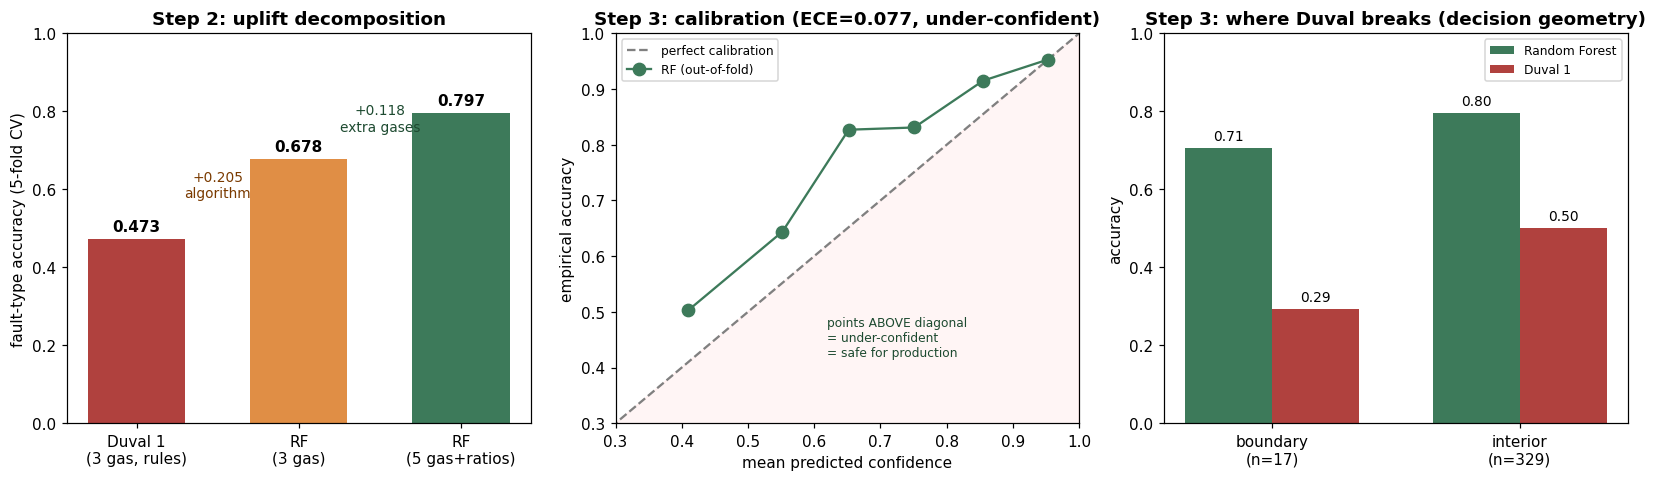
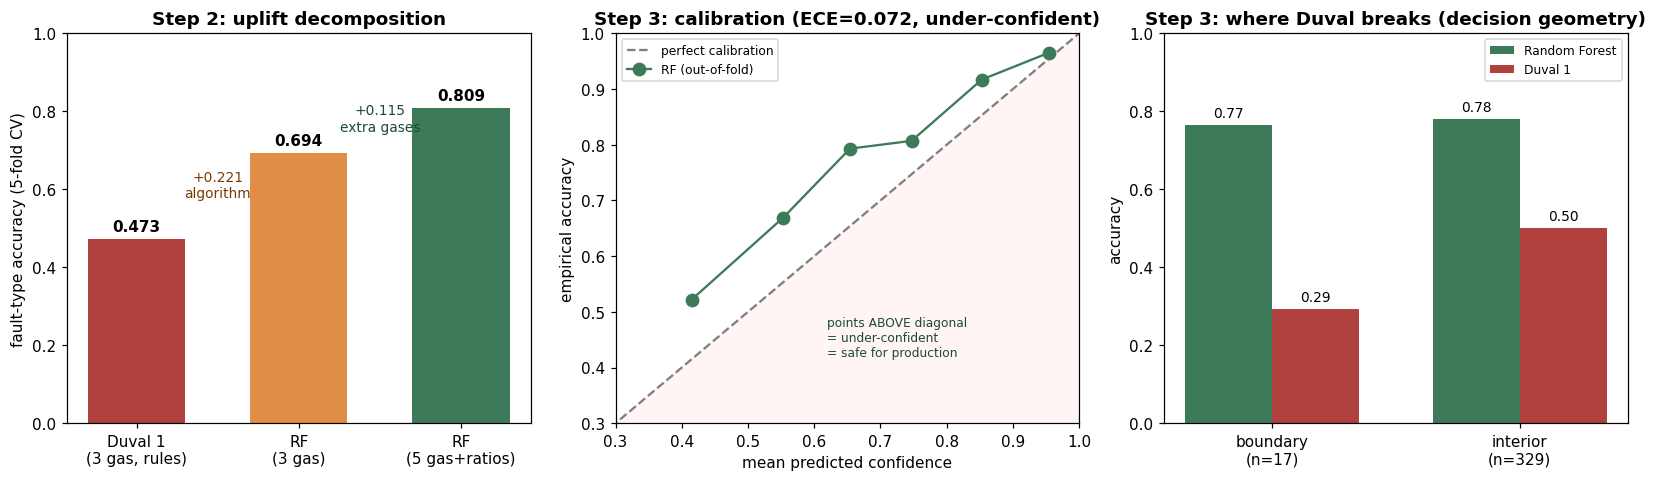
feat: add reproducibility script, figure generator, and verified metrics

diff --git a/reproduce.py b/reproduce.py
@@ -24,11 +24,9 @@ np.random.seed(42)
 
 # ---------- data ----------
 URL="https://github.com/alan-456/transformer-fault-dataset/raw/main/data.xlsx"
-os.makedirs("data", exist_ok=True)
-data_path = "data/data.xlsx"
-if not os.path.exists(data_path):
-    print("downloading dataset..."); urllib.request.urlretrieve(URL, data_path)
-df=pd.read_excel(data_path); df.columns=['H2','CH4','C2H6','C2H4','C2H2','zh']
+if not os.path.exists("data.xlsx"):
+    print("downloading dataset..."); urllib.request.urlretrieve(URL,"data.xlsx")
+df=pd.read_excel("data.xlsx"); df.columns=['H2','CH4','C2H6','C2H4','C2H2','zh']
 ZH={'正常':'Normal','局部放电':'PD','低能放电':'D1','高能放电':'D2',
     '低温过热':'T1','中温过热':'T2','高温过热':'T3'}
 df['label']=df['zh'].map(ZH)
@@ -125,6 +123,5 @@ R={"duval_verify":{"uncovered":miss,"spotchecks_pass":spot},
                "rf_boundary":round(rf_b,3),"duval_boundary":round(dv_b,3),
                "rf_interior":round(rf_i,3),"duval_interior":round(dv_i,3)}}
 print(json.dumps(R,indent=2))
-os.makedirs("results", exist_ok=True)
-json.dump(R,open("results/verified_results.json","w"),indent=2)
-print("\nsaved results/verified_results.json")
+json.dump(R,open("verified_results.json","w"),indent=2)
+print("\nsaved verified_results.json")

diff --git a/make_figs.py b/make_figs.py
@@ -1,6 +1,6 @@
 import json, numpy as np, matplotlib
 matplotlib.use('Agg'); import matplotlib.pyplot as plt
-R=json.load(open("results/verified_results.json"))
+R=json.load(open("verified_results.json"))
 fig,ax=plt.subplots(1,3,figsize=(15,4.5))
 
 # Panel 1: uplift decomposition
@@ -36,5 +36,5 @@ ax[2].set_title("Step 3: where Duval breaks (decision geometry)",fontweight='bol
 for i,(r,d) in enumerate([(bd["rf_boundary"],bd["duval_boundary"]),(bd["rf_interior"],bd["duval_interior"])]):
     ax[2].text(i-w/2,r+0.02,f"{r:.2f}",ha='center',fontsize=9); ax[2].text(i+w/2,d+0.02,f"{d:.2f}",ha='center',fontsize=9)
 
-plt.tight_layout(); plt.savefig("results/fig_results.png",dpi=110,bbox_inches='tight')
-print("saved results/fig_results.png")
+plt.tight_layout(); plt.savefig("fig_results.png",dpi=110,bbox_inches='tight')
+print("saved fig_results.png")

diff --git a/README.md b/README.md
@@ -5,7 +5,7 @@ baseline with a machine-learning classifier, and **measures exactly where each o
 The contribution is not "ML beats Duval" — it is a decomposed, calibrated, stress-tested
 comparison where every number is reproducible and every claim is bounded.
 
-![results](results/fig_results.png)
+![results](fig_results.png)
 
 ## Executive summary
 
@@ -100,9 +100,9 @@ bottleneck.
 
 ```
 pip install -r requirements.txt
-python reproduce.py     # downloads data, regenerates every number -> results/verified_results.json
-python make_figs.py     # regenerates results/fig_results.png
+python reproduce.py     # downloads data, regenerates every number -> verified_results.json
+python make_figs.py     # regenerates fig_results.png
 ```
 
-Data: `alan-456/transformer-fault-dataset` (data/data.xlsx, 2321 samples, 7 classes incl. Normal),
+Data: `alan-456/transformer-fault-dataset` (data.xlsx, 2321 samples, 7 classes incl. Normal),
 itself sourced from Enwen Li (IEEE DataPort) and Duval/dePablo IEC TC10 references.